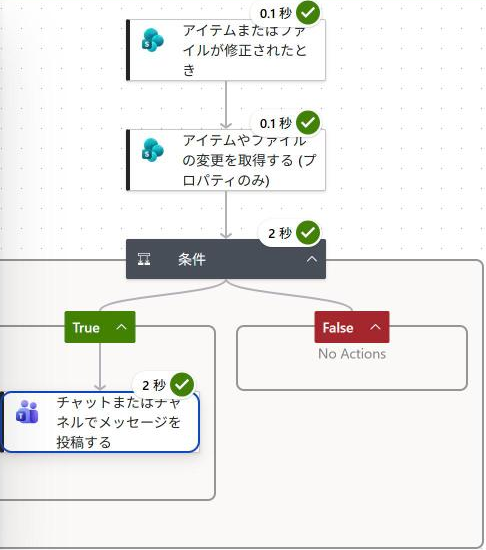
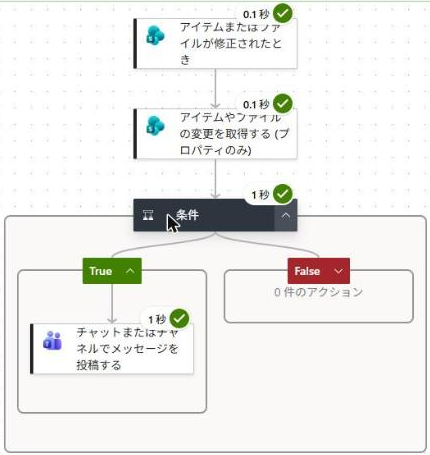
第34回 STEP1〜5 を実画面に差し替え（Edge で手順書どおりに作成・2026-11-03）
- スライド t1〜t5・手順書：トリガー選択／変更を取得の欄／条件／Teams 投稿／実行結果を実画面に
- 欄名を確定：リストやライブラリの名前・以降・期限、⚡ ウィンドウ開始／終了のトークンのトリガー
- 手順書に検索語のコツ（「アイテムやファイルの変更」）・期限は「すべて表示」・条件の空の2行目は保存されない・本文は「/」で ⚡ を入れる、を追記

Changed region(s): [[0.0, 0.0, 0.9977, 1.0]]

diff --git a/slides/vol-34/handson.html b/slides/vol-34/handson.html
@@ -217,8 +217,8 @@
     <div class="goal2"><b>この段のゴール</b>トリガー「アイテムまたはファイルが修正されたとき」に、準備のサイトとリストが入っている</div>
     <p class="why2"><b>なぜ</b>リストの行が書き換わったら動く入口。この時点では、メモでもステータスでも、どの列の書き換えでも動く。見分けるのは STEP 2・3。</p>
     <div class="blks">
-      <div class="blk"><div class="bn">1</div><div class="bc"><b>「作成」→「自動化したクラウド フロー」</b>。フロー名は <span class="k">PA45 第34回 ステータス通知</span>。トリガーの検索欄に <b>SharePoint</b> と入れ、<b>「アイテムまたはファイルが修正されたとき」</b>を選んで「作成」。<br><small>デモでは「修正されたとき」と入れて検索すると0件でした。「SharePoint」で探すと一覧に出ます。よく似た「項目が作成されたとき」「ファイルが作成または変更されたとき (プロパティのみ)」と取り違えないようにします。</small></div></div>
-      <div class="blk"><div class="bn">2</div><div class="bc"><div class="act"><img src="assets/icon_sharepoint.png" alt="">SharePoint の<b>「アイテムまたはファイルが修正されたとき」</b></div><table class="kv kv3"><tr class="kvh"><th>欄</th><td>入れるもの（どこから選ぶか）</td><td class="lt">なぜ・あとでどう役立つか</td></tr><tr><th>サイトのアドレス</th><td>準備でリストを作ったサイト</td><td class="lt">STEP 2 でも同じサイトを選ぶ</td></tr><tr><th>リスト名</th><td>問い合わせ管理</td><td class="lt">STEP 2 でも同じリスト</td></tr></table><small>欄の名前は 11/4 のリハーサルで画面に合わせて確定します（Learn の英語名は Site Address／List or Library Name）。</small><div class="later"><b>次に渡るもの</b><span class="dyn">⚡ ID</span>（書き換わった行）と、トリガーが見た時間のはじめ／おわりの印（開始トークン・終了トークン）→ STEP 2 の欄。<span class="dyn">⚡ タイトル</span>・<span class="dyn">⚡ ステータス Value</span> → STEP 4 の文面</div></div></div>
+      <div class="blk"><div class="bn">1</div><div class="bc"><b>「作成」→「自動化したクラウド フロー」</b>。フロー名は <span class="k">PA45 第34回 ステータス通知</span>。トリガーの検索欄に <b>SharePoint</b> と入れ、<b>「アイテムまたはファイルが修正されたとき」</b>を選んで「作成」。<img class="shot" src="assets/real-s1-trigger-pick.png" alt="自動化したクラウド フローを構築する。SharePoint で検索して、アイテムまたはファイルが修正されたとき を選んだ画面"><br><small>「修正されたとき」と入れて検索すると0件でした（2026-11-03 にも同じ）。「SharePoint」で探すと一覧に出ます。よく似た「項目が作成されたとき」「ファイルが作成または変更されたとき (プロパティのみ)」と取り違えないようにします。</small></div></div>
+      <div class="blk"><div class="bn">2</div><div class="bc"><div class="act"><img src="assets/icon_sharepoint.png" alt="">SharePoint の<b>「アイテムまたはファイルが修正されたとき」</b></div><table class="kv kv3"><tr class="kvh"><th>欄</th><td>入れるもの（どこから選ぶか）</td><td class="lt">なぜ・あとでどう役立つか</td></tr><tr><th>サイトのアドレス</th><td>準備でリストを作ったサイト</td><td class="lt">STEP 2 でも同じサイトを選ぶ</td></tr><tr><th>リストやライブラリの名前</th><td>問い合わせ管理</td><td class="lt">STEP 2 でも同じリスト</td></tr></table><div class="later"><b>次に渡るもの</b><span class="dyn">⚡ ID</span>（書き換わった行）と、トリガーが見た時間のはじめ／おわりの印（開始トークン・終了トークン）→ STEP 2 の欄。<span class="dyn">⚡ タイトル</span>・<span class="dyn">⚡ ステータス Value</span> → STEP 4 の文面</div></div></div>
     </div>
 
   </section>
@@ -228,8 +228,8 @@
     <div class="goal2"><b>この段のゴール</b>「アイテムやファイルの変更を取得する (プロパティのみ)」に、サイト・リスト・ID・はじめ・おわりが入っている</div>
     <p class="why2"><b>なぜ</b>リストは書き換えのたびに版（1.0 → 2.0 → 3.0）を残している。このアクションは、トリガーが見た前の版と今の版を比べて、列ごとに「変わった（true）／変わっていない（false）」を返す。</p>
     <div class="blks">
-      <div class="blk"><div class="bn">1</div><div class="bc">トリガーの下の<b>「＋」→「アクションの追加」</b>で、SharePoint の<b>「アイテムやファイルの変更を取得する (プロパティのみ)」</b>を選びます。</div></div>
-      <div class="blk"><div class="bn">2</div><div class="bc"><div class="act"><img src="assets/icon_sharepoint.png" alt="">SharePoint の<b>「アイテムやファイルの変更を取得する (プロパティのみ)」</b></div><table class="kv kv3"><tr class="kvh"><th>欄</th><td>入れるもの（どこから選ぶか）</td><td class="lt">なぜ・あとでどう役立つか</td></tr><tr><th>サイトのアドレス・リスト名</th><td>STEP 1 と同じ</td><td class="lt">同じリストの変化を見る</td></tr><tr><th>ID</th><td><span class="dyn">⚡ ID</span><span class="src">（アイテムまたはファイルが修正されたとき）</span></td><td class="lt">書き換わった行</td></tr><tr><th>Since（比べるはじめ）</th><td>⚡ トリガーの開始トークン</td><td class="lt">前の版。ここから</td></tr><tr><th>Until（比べるおわり）</th><td>⚡ トリガーの終了トークン</td><td class="lt">今の版。ここまで</td></tr></table><small>Since・Until の日本語の欄名と、⚡ 一覧での開始・終了トークンの表示名は 11/4 のリハーサルで画面に合わせて確定します（Learn の説明：Trigger Window Start token／End token）。</small><div class="later"><b>次に渡るもの</b>⚡ 「列が変更されています。 ステータス」（true／false）→ STEP 3 の条件。ほかに「開始バージョン番号」「終了バージョン番号」と、列ごとの「列が変更されています。 ○○」が出てくる（デモでは16件）</div></div></div>
+      <div class="blk"><div class="bn">1</div><div class="bc">トリガーの下の<b>「＋」</b>を押し、検索欄に <b>アイテムやファイルの変更</b> と入れて、SharePoint の<b>「アイテムやファイルの変更を取得する (プロパティのみ)」</b>を選びます。<br><small>「変更を取得」と入れると、このアクションは出てきませんでした。</small></div></div>
+      <div class="blk"><div class="bn">2</div><div class="bc"><div class="act"><img src="assets/icon_sharepoint.png" alt="">SharePoint の<b>「アイテムやファイルの変更を取得する (プロパティのみ)」</b></div><table class="kv kv3"><tr class="kvh"><th>欄</th><td>入れるもの（どこから選ぶか）</td><td class="lt">なぜ・あとでどう役立つか</td></tr><tr><th>サイトのアドレス・リスト名</th><td>STEP 1 と同じ</td><td class="lt">同じリストの変化を見る</td></tr><tr><th>ID</th><td><span class="dyn">⚡ ID</span><span class="src">（アイテムまたはファイルが修正されたとき）</span></td><td class="lt">書き換わった行</td></tr><tr><th>以降</th><td><span class="dyn">⚡ ウィンドウ開始のトークンのトリガー</span><span class="src">（アイテムまたはファイルが修正されたとき）</span></td><td class="lt">前の版。ここから</td></tr><tr><th>期限</th><td><span class="dyn">⚡ ウィンドウ終了のトークンのトリガー</span><span class="src">（アイテムまたはファイルが修正されたとき）</span></td><td class="lt">今の版。ここまで</td></tr></table><small>「期限」は最初は出ていません。詳細パラメーターの「すべて表示」を押すと出てきます。⚡ の一覧で <b>トークン</b> と入れて探すと、開始・終了の2つだけに絞れます。保存すると、欄の ⚡ の表示が英語の内部名（{TriggerWindow…）に変わりますが、中身は同じです。</small><img class="shot" src="assets/real-s2-fields.png" alt="アイテムやファイルの変更を取得する (プロパティのみ) の欄。ID・以降・期限に ⚡ が入っている"><div class="later"><b>次に渡るもの</b>⚡ 「列が変更されています。 ステータス」（true／false）→ STEP 3 の条件。ほかに「開始バージョン番号」「終了バージョン番号」と、列ごとの「列が変更されています。 ○○」が出てくる（デモでは16件）</div></div></div>
     </div>
 
   </section>
@@ -239,8 +239,8 @@
     <div class="goal2"><b>この段のゴール</b>条件の左に ⚡ 列が変更されています。 ステータス、真ん中が「等しい」、右が true</div>
     <p class="why2"><b>なぜ</b>ここで「知らせるか」を決める。メモだけの書き換えは false になり、いいえ側に進んで何もしない。</p>
     <div class="blks">
-      <div class="blk"><div class="bn">1</div><div class="bc"><b>「＋」→「アクションの追加」→ コントロール「条件」</b>。</div></div>
-      <div class="blk"><div class="bn">2</div><div class="bc"><table class="kv kv3"><tr class="kvh"><th>欄</th><td>入れるもの（どこから選ぶか）</td><td class="lt">なぜ・あとでどう役立つか</td></tr><tr><th>左の値</th><td><span class="dyn">⚡ 列が変更されています。 ステータス</span><span class="src">（アイテムやファイルの変更を取得する）</span></td><td class="lt">ステータスが変わったか</td></tr><tr><th>演算子</th><td>等しい</td><td class="lt">そのまま</td></tr><tr><th>右の値</th><td>true（手で入力）</td><td class="lt">変わった＝はい</td></tr></table><small>⚡ 一覧では「列が変更されています。 タイトル／担当／ステータス／メモ」のように、列の数だけ並びます。説明はどれも「このフィールドが変更の有無を示すブール値」です。</small><div class="later"><b>次に渡るもの</b>はい（True）のとき → STEP 4。いいえ（False）のときは何もしない</div></div></div>
+      <div class="blk"><div class="bn">1</div><div class="bc"><b>「＋」→ コントロール →「条件」</b>。</div></div>
+      <div class="blk"><div class="bn">2</div><div class="bc"><table class="kv kv3"><tr class="kvh"><th>欄</th><td>入れるもの（どこから選ぶか）</td><td class="lt">なぜ・あとでどう役立つか</td></tr><tr><th>左の値</th><td><span class="dyn">⚡ 列が変更されています。 ステータス</span><span class="src">（アイテムやファイルの変更を取得する）</span></td><td class="lt">ステータスが変わったか</td></tr><tr><th>演算子</th><td>等しい</td><td class="lt">そのまま</td></tr><tr><th>右の値</th><td>true（手で入力）</td><td class="lt">変わった＝はい</td></tr></table><img class="shot" src="assets/real-s2-dyn-status.png" alt="⚡ を「ステータス」で探すと、列が変更されています。 ステータス が出る"><img class="shot" src="assets/real-s3-condition.png" alt="条件の1行目。左に ⚡、真ん中が等しい、右が true"><small>左の値の ⚡ は、一覧の検索で <b>ステータス</b> と入れると見つけやすい。条件には空の2行目がいつも出ていますが、保存されるのは1行目だけです（消さなくてよい）。⚡ 一覧では「列が変更されています。 タイトル／担当／ステータス／メモ」のように、列の数だけ並びます。説明はどれも「このフィールドが変更の有無を示すブール値」です。</small><div class="later"><b>次に渡るもの</b>はい（True）のとき → STEP 4。いいえ（False）のときは何もしない</div></div></div>
     </div>
 
   </section>
@@ -250,8 +250,8 @@
     <div class="goal2"><b>この段のゴール</b>条件の True の中に「チャットまたはチャネルでメッセージを投稿する」があり、文面に件名とステータスが入っている</div>
     <p class="why2"><b>なぜ</b>知らせるのは、変わったときだけ。文面には、何が・どうなったかを入れて、リストを開かなくても分かるようにする。</p>
     <div class="blks">
-      <div class="blk"><div class="bn">1</div><div class="bc">条件の <b>True</b> の中の「＋」→ Teams の<b>「チャットまたはチャネルでメッセージを投稿する」</b>。</div></div>
-      <div class="blk"><div class="bn">2</div><div class="bc"><div class="act"><img src="assets/icon_teams.png" alt="">Microsoft Teams の<b>「チャットまたはチャネルでメッセージを投稿する」</b></div><img class="shot" src="assets/real-teams.png" alt="チャットまたはチャネルでメッセージを投稿する の設定画面（第35回のデモの画面）"><table class="kv kv3"><tr class="kvh"><th>欄</th><td>入れるもの（どこから選ぶか）</td><td class="lt">なぜ・あとでどう役立つか</td></tr><tr><th>投稿者</th><td>フロー ボット</td><td class="lt">Teams での送り主</td></tr><tr><th>投稿先</th><td>フロー ボットとチャットをする</td><td class="lt">練習は自分あて</td></tr><tr><th>Recipient</th><td>自分のメール アドレス</td><td class="lt">届く人</td></tr><tr><th>メッセージ</th><td>問い合わせのステータスが変わりました／件名：<span class="dyn">⚡ タイトル</span>／ステータス：<span class="dyn">⚡ ステータス Value</span></td><td class="lt">← どれも STEP 1 のトリガーの ⚡</td></tr></table><div class="later"><b>次に渡るもの</b>ここで全部1つにまとまる：件名 ← STEP 1 のタイトル／ステータス ← STEP 1 のステータス Value</div></div></div>
+      <div class="blk"><div class="bn">1</div><div class="bc">条件の <b>True</b> の中の「＋」→ Teams の<b>「チャットまたはチャネルでメッセージを投稿する」</b>。<br><small>メッセージに ⚡ を入れるときは、本文で <b>/</b> を打つと出る「動的コンテンツを挿入する」が確実です。Recipient に名前を入れたあとは、メッセージ欄をクリックしてから文字を打ちます（Recipient に文字が入ってしまうことがある）。</small></div></div>
+      <div class="blk"><div class="bn">2</div><div class="bc"><div class="act"><img src="assets/icon_teams.png" alt="">Microsoft Teams の<b>「チャットまたはチャネルでメッセージを投稿する」</b></div><img class="shot" src="assets/real-s4-teams.png" alt="チャットまたはチャネルでメッセージを投稿する の設定画面。メッセージに ⚡ タイトルと ⚡ ステータス Value"><table class="kv kv3"><tr class="kvh"><th>欄</th><td>入れるもの（どこから選ぶか）</td><td class="lt">なぜ・あとでどう役立つか</td></tr><tr><th>投稿者</th><td>フロー ボット</td><td class="lt">Teams での送り主</td></tr><tr><th>投稿先</th><td>フロー ボットとチャットをする</td><td class="lt">練習は自分あて</td></tr><tr><th>Recipient</th><td>自分のメール アドレス</td><td class="lt">届く人</td></tr><tr><th>メッセージ</th><td>問い合わせのステータスが変わりました／件名：<span class="dyn">⚡ タイトル</span>／ステータス：<span class="dyn">⚡ ステータス Value</span></td><td class="lt">← どれも STEP 1 のトリガーの ⚡</td></tr></table><div class="later"><b>次に渡るもの</b>ここで全部1つにまとまる：件名 ← STEP 1 のタイトル／ステータス ← STEP 1 のステータス Value</div></div></div>
     </div>
 
   </section>
@@ -263,7 +263,7 @@
     <div class="blks">
       <div class="blk"><div class="bn">1</div><div class="bc">右上の<b>「保存」</b>。リストに戻り、「請求書の再発行をお願いしたい」の<b>メモだけ</b>を書き足して保存します。</div></div>
       <div class="blk"><div class="bn">2</div><div class="bc">フローの実行履歴を開くと、新しい実行があります。条件まで緑で、Teams には何も届きません。<img class="shot" src="assets/real-run-memo.png" alt="メモを書き足したときの実行。条件まで緑で、Teams への投稿はなし"></div></div>
-      <div class="blk"><div class="bn">3</div><div class="bc">次に同じ行の<b>ステータスを「対応中」→「完了」</b>にして保存します。1分ほどで Teams に届きます（デモでは書き換えて1分以内に動いた）。<img class="shot" src="assets/real-run-status.png" alt="ステータスを完了にしたときの実行。True 側で Teams に投稿"><table class="kv kv3"><tr class="kvh"><th>欄</th><td>入れるもの（どこから選ぶか）</td><td class="lt">なぜ・あとでどう役立つか</td></tr><tr><th>届いた本文（デモ）</th><td>問い合わせのステータスが変わりました／件名：請求書の再発行をお願いしたい／ステータス：完了</td><td class="lt">STEP 4 の文面どおり</td></tr></table></div></div>
+      <div class="blk"><div class="bn">3</div><div class="bc">次に同じ行の<b>ステータスを「対応中」→「完了」</b>にして保存します。1分ほどで Teams に届きます（デモでは書き換えて1分以内に動いた。2026-11-03 も同じ）。<img class="shot" src="assets/real-run-status.png" alt="ステータスを完了にしたときの実行。True 側で Teams に投稿"><table class="kv kv3"><tr class="kvh"><th>欄</th><td>入れるもの（どこから選ぶか）</td><td class="lt">なぜ・あとでどう役立つか</td></tr><tr><th>届いた本文（デモ）</th><td>問い合わせのステータスが変わりました／件名：請求書の再発行をお願いしたい／ステータス：完了</td><td class="lt">STEP 4 の文面どおり</td></tr></table></div></div>
     </div>
     <div class="callout warn"><b>⚠ 試し終わったら：</b> このトリガーはリストを見張り続けます。練習が終わったら、フローの詳細画面で「オフにする」にしておくと止まります。</div>
   </section>

diff --git a/slides/vol-34/index.html b/slides/vol-34/index.html
@@ -1104,7 +1104,7 @@
   #smap .build3 .bk{padding:10px 18px;} #smap .build3 .bk b{font-size:24px;} #smap .build3 .bk span{font-size:18px;} #smap .build3 .bp{font-size:19px;padding:8px 14px;} #smap .build3 .mi2{width:42px;height:42px;} #smap .build3 .bv{font-size:15px;}
   #smap .stepgrid{grid-template-columns:1.45fr 0.55fr;align-items:center;} #smap .realshot{max-height:380px;}
   #t1 .realrow,#t2 .realrow,#t3 .realrow,#t4 .realrow{grid-template-columns:1fr 1fr;align-items:center;}
-  #t4 .realrow .rs{max-height:360px;object-fit:contain;}
+  #t4 .realrow .rs{max-height:360px;object-fit:contain;} #t1 .realrow .rs{max-height:330px !important;} #t2 .realrow .rs{max-height:300px !important;} #t2 .realrow{align-items:start;} #t2 .rws{gap:6px;} #t2 .rws .rw{padding:6px 12px;}
   #t5 .pair{grid-template-columns:0.62fr 1.38fr;} #t5 .pair .rs2{max-height:380px;object-fit:contain;}
   #t5 .rs2{border:1px solid #cbd5e1;border-radius:10px;}
   #t1 .rws,#t2 .rws{gap:8px;} #t2 .rw{padding:6px 12px;} #t2 .rw .rv{font-size:19px;}
@@ -1387,16 +1387,11 @@
 <div class="talk"><div class="tlk auto"><img src="assets/ira_computer_businesswoman1_smile.png" alt=""><div class="tlb"><span class="tlw">オートさん</span>まずは<b>書き換えたら動く</b>トリガー。この時点では、どの列でも動く</div></div></div>
 
     <div class="realrow">
-      <div class="spmenu"><div class="sh"><img src="assets/icon_sharepoint.png" alt="">トリガーの追加 ＞ SharePoint</div>
-        <div class="row">選択したアイテムの場合</div>
-        <div class="row">項目が削除されたとき</div>
-        <div class="row hi">アイテムまたはファイルが修正されたとき<span class="dot">← これ</span></div>
-        <div class="row">項目が作成されたとき</div>
-        <div class="row">ファイルが作成または変更されたとき (プロパティのみ)</div></div>
-      <div class="rws"><div class="rw"><div class="rf">サイトのアドレス</div><div class="rv"><small>準備のリストがあるサイト</small></div><div class="ru">→ STEP 2 も同じサイト</div></div><div class="rw"><div class="rf">リスト名</div><div class="rv"><small>問い合わせ管理</small></div><div class="ru">→ STEP 2 も同じリスト</div></div><div class="rw"><div class="rf">動くとき</div><div class="rv"><small>書き換えたとき（新しく登録したときは動かない）</small></div><div class="ru">→ どの列でも動く。見分けるのは次の STEP</div></div></div>
+      <img class="rs" src="assets/real-s1-trigger-pick.png" alt="自動化したクラウド フローを構築する。SharePoint で検索して、アイテムまたはファイルが修正されたとき を選んだ画面">
+      <div class="rws"><div class="rw"><div class="rf">サイトのアドレス</div><div class="rv"><small>準備のリストがあるサイト</small></div><div class="ru">→ STEP 2 も同じサイト</div></div><div class="rw"><div class="rf">リストやライブラリの名前</div><div class="rv"><small>問い合わせ管理</small></div><div class="ru">→ STEP 2 も同じリスト</div></div><div class="rw"><div class="rf">動くとき</div><div class="rv"><small>書き換えたとき（新しく登録したときは動かない）</small></div><div class="ru">→ どの列でも動く。見分けるのは次の STEP</div></div></div>
     </div>
     <div class="tsugi"><b>次に渡るもの</b>⚡ ID と、トリガーが見た時間のはじめ／おわりの印 → STEP 2 の欄</div>
-</div><div class="slide-footer"><span class="dobadge do"><b>🖐 いま手を動かす</b>作成 → 自動化したクラウド フロー → 「修正されたとき」の SharePoint トリガー</span><span class="chat-reminder">💬 気づいたことを #PA45 で気軽に投稿しよう！スクショOK！</span></div>
+</div><div class="slide-footer"><span class="dobadge do"><b>🖐 いま手を動かす</b>作成 → 自動化したクラウド フロー →「SharePoint」で検索してトリガーを選ぶ</span><span class="chat-reminder">💬 気づいたことを #PA45 で気軽に投稿しよう！スクショOK！</span></div>
 </section>
 <section class="slide pa" id="t2">
   <span class="slide-num">15 / 22</span>
@@ -1405,15 +1400,11 @@
 <div class="talk"><div class="tlk auto"><img src="assets/ira_businesswoman2_idea.png" alt=""><div class="tlb"><span class="tlw">オートさん</span>次に<b>どの列が変わったか</b>を調べる。欄は全部 ⚡ から</div></div></div>
 
     <div class="realrow">
-      <div class="dynlist"><div class="dh"><img src="assets/icon_sharepoint.png" alt="">このアクションから出てくる ⚡（デモの画面）<small>16 件</small></div>
-        <div class="di"><b>開始バージョン番号</b><span>このアクションが変更をチェックした最も古いバージョン番号</span></div>
-        <div class="di"><b>終了バージョン番号</b><span>このアクションが変更をチェックした最新のバージョン番号</span></div>
-        <div class="di"><b>列が変更されています。 メモ</b><span>このフィールドが変更の有無を示すブール値</span></div>
-        <div class="di hi"><b>列が変更されています。 ステータス</b><span>このフィールドが変更の有無を示すブール値</span></div></div>
-      <div class="rws"><div class="rw"><div class="rf">サイト・リスト</div><div class="rv"><small>STEP 1 と同じ</small></div><div class="ru">→ 同じリストを見る</div></div><div class="rw"><div class="rf">ID</div><div class="rv"><span class="ch">⚡ ID</span><small>アイテムまたはファイルが修正されたとき</small></div><div class="ru">→ 書き換わった行</div></div><div class="rw"><div class="rf">比べるはじめ（Since）</div><div class="rv"><small>トリガーの ⚡ の開始トークン</small></div><div class="ru">→ 前の版</div></div><div class="rw"><div class="rf">比べるおわり（Until）</div><div class="rv"><small>トリガーの ⚡ の終了トークン</small></div><div class="ru">→ 今の版</div></div></div>
+      <img class="rs" src="assets/real-s2-fields.png" alt="アイテムやファイルの変更を取得する (プロパティのみ) の設定。ID・以降・期限に ⚡ が入っている">
+      <div class="rws"><div class="rw"><div class="rf">サイト・リスト</div><div class="rv"><small>STEP 1 と同じ</small></div><div class="ru">→ 同じリストを見る</div></div><div class="rw"><div class="rf">ID</div><div class="rv"><span class="ch">⚡ ID</span><small>アイテムまたはファイルが修正されたとき</small></div><div class="ru">→ 書き換わった行</div></div><div class="rw"><div class="rf">以降</div><div class="rv"><span class="ch">⚡ ウィンドウ開始のトークンのトリガー</span><small>トリガーの ⚡</small></div><div class="ru">→ 前の版から</div></div><div class="rw"><div class="rf">期限（詳細パラメーター）</div><div class="rv"><span class="ch">⚡ ウィンドウ終了のトークンのトリガー</span><small>トリガーの ⚡</small></div><div class="ru">→ 今の版まで</div></div></div>
     </div>
     <div class="tsugi"><b>次に渡るもの</b>⚡ 列が変更されています。 ステータス（true／false）→ STEP 3 の条件</div>
-</div><div class="slide-footer"><span class="dobadge do"><b>🖐 いま手を動かす</b>＋ → SharePoint「アイテムやファイルの変更を取得する」→ 欄は全部 ⚡ から</span><span class="chat-reminder">💬 気づいたことを #PA45 で気軽に投稿しよう！スクショOK！</span></div>
+</div><div class="slide-footer"><span class="dobadge do"><b>🖐 いま手を動かす</b>＋ →「アイテムやファイルの変更」で検索 → 期限は「すべて表示」で出す</span><span class="chat-reminder">💬 気づいたことを #PA45 で気軽に投稿しよう！スクショOK！</span></div>
 </section>
 <section class="slide pa" id="t3">
   <span class="slide-num">16 / 22</span>
@@ -1422,9 +1413,7 @@
 <div class="talk"><div class="tlk auto"><img src="assets/ira_businesswoman2_think.png" alt=""><div class="tlb"><span class="tlw">オートさん</span>ステータスが変わったか、<b>はい／いいえ</b>で分ける</div></div></div>
 
     <div class="realrow">
-      <div class="condm"><div class="ct">Condition expression *</div><div class="cd">比較する値を指定し、使用する演算子を選択します。</div>
-        <span class="andl">かつ</span>
-        <div class="row"><div><span class="chip">⚡ 列が変更されています。 ステータス</span></div><div>等しい</div><div>true</div></div></div>
+      <img class="rs" src="assets/real-s3-condition.png" alt="条件の1行目。左に ⚡、真ん中が等しい、右が true">
       <div class="rws"><div class="rw"><div class="rf">左の値</div><div class="rv"><span class="ch">⚡ 列が変更されています。 ステータス</span><small>STEP 2 の ⚡</small></div><div class="ru">→ 変わったかどうか</div></div><div class="rw"><div class="rf">真ん中</div><div class="rv"><small>等しい</small></div><div class="ru">→ そのまま</div></div><div class="rw"><div class="rf">右の値</div><div class="rv"><small>true（手で入力）</small></div><div class="ru">→ 変わった＝はい</div></div></div>
     </div>
     <div class="ex2">
@@ -1440,7 +1429,7 @@
 <div class="talk"><div class="tlk auto"><img src="assets/ira_computer_businesswoman1_smile.png" alt=""><div class="tlb"><span class="tlw">オートさん</span>はいのときだけ投稿。<b>何が完了したか</b>を文面に入れる</div></div></div>
 
     <div class="realrow">
-      <img class="rs" src="assets/real-teams.png" alt="チャットまたはチャネルでメッセージを投稿する の設定画面（第35回のデモ）">
+      <img class="rs" src="assets/real-s4-teams.png" alt="チャットまたはチャネルでメッセージを投稿する の設定画面。メッセージに ⚡ タイトルと ⚡ ステータス Value">
       <div class="rws"><div class="rw"><div class="rf">投稿者</div><div class="rv"><small>フロー ボット</small></div><div class="ru">→ Teams の送り主</div></div><div class="rw"><div class="rf">投稿先</div><div class="rv"><small>フロー ボットとチャットをする</small></div><div class="ru">→ 練習は自分あて</div></div><div class="rw"><div class="rf">Recipient</div><div class="rv"><small>自分のメール アドレス</small></div><div class="ru">→ 届く人</div></div><div class="rw"><div class="rf">メッセージ</div><div class="rv"><span class="ch">⚡ タイトル</span><small>＋ ⚡ ステータス Value</small></div><div class="ru">→ 何が完了したか</div></div></div>
     </div>
     <div class="tsugi"><b>あとで</b>ここで全部1つにまとまる：件名 ← STEP 1 のタイトル／ステータス ← STEP 1 のステータス Value</div>
